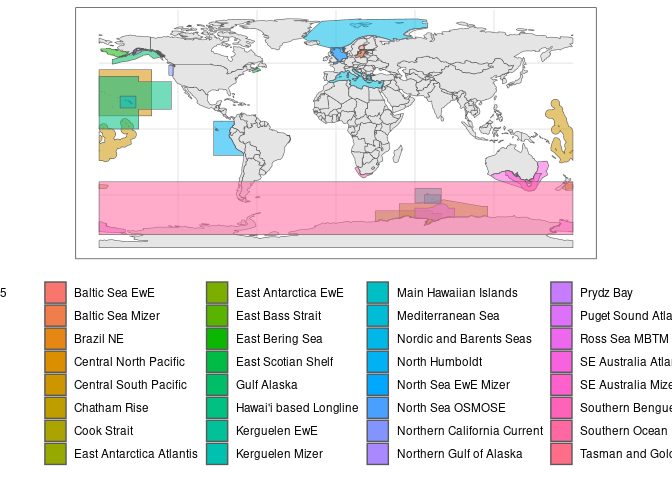
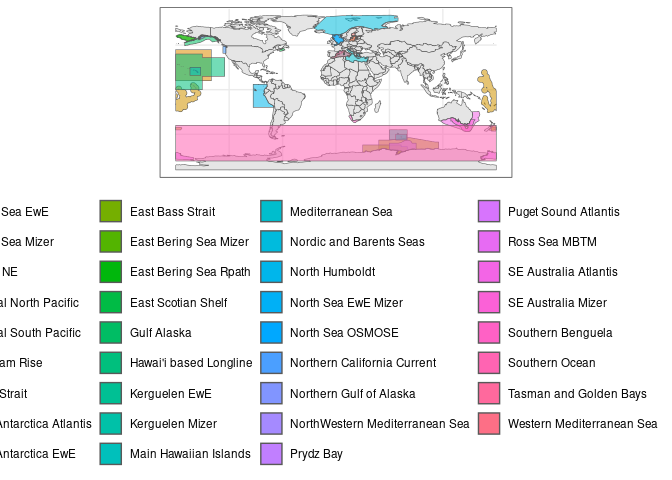
adding new regions

diff --git a/Scripts/01_Merging_Regional_Shapefiles.md b/Scripts/01_Merging_Regional_Shapefiles.md
@@ -97,7 +97,7 @@ region_paths <- region_paths[!str_detect(region_paths, "SupportInfo")]
 
 ## Loading regions
 
-As of December 2023, there are 32 regional FishMIP models. We will use
+As of December 2023, there are 35 regional FishMIP models. We will use
 the boundaries for all these regions to create a single shapefile that
 includes all FishMIP regional models. Having a single file is useful to
 create maps showing all regional models easily. This file can also be
@@ -148,7 +148,7 @@ ggplot()+
 
 ![](01_Merging_Regional_Shapefiles_files/figure-gfm/map-1.png)<!-- -->
 
-The merged shapefile includes 32 different regions, which matches the
+The merged shapefile includes 35 different regions, which matches the
 number of regional FishMIP models. We can now save this merged file.
 
 ``` r
